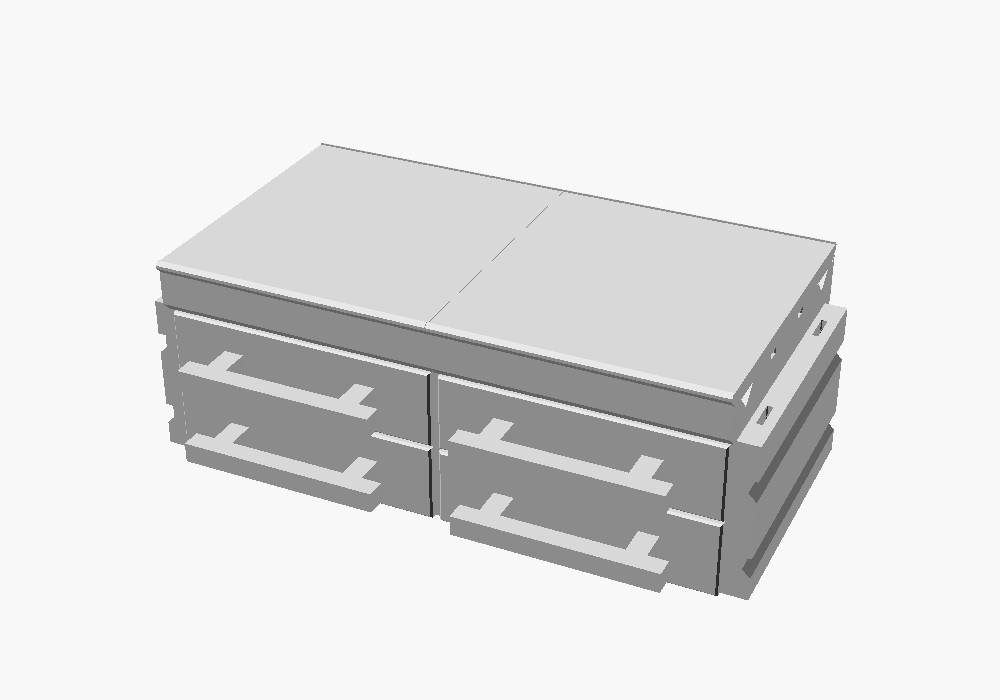
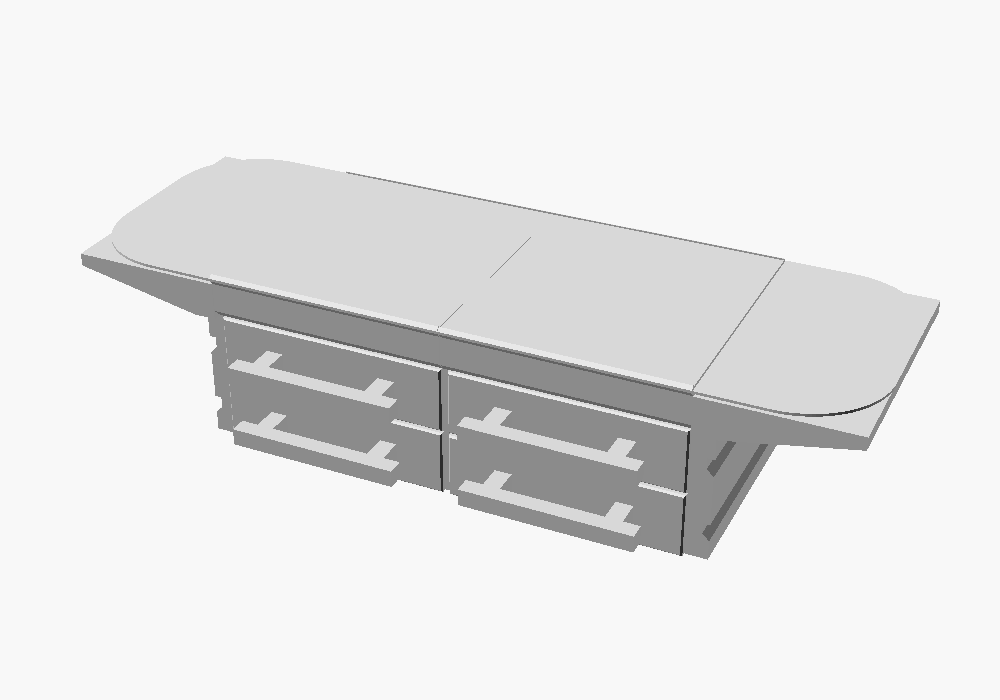
End pieces: squared, rounded-square, and rounded caps
- modules/end_caps.scad ports all four legacy end modules:
  base_plate_end_squared (tilted minkowski-stretched cap with dovetail
  sockets, tabs, HOK cutouts), base_plate_end_rounded (half-round, with
  legacy Oct/Hex bonus styles), top_plate_end_squared / _rounded (built
  on top_plate_from_shape), plus base_plate_end()/top_plate_end() style
  dispatchers
- END_* design constants (11-degree tilt, 89mm reach, bevel) in
  core/constants.scad; END_STYLE in config.scad; CORNER_RADIUS now used
- storage_system() gains ends/end_style and places caps per the original
  assembly; customizer gains End_Style and both end parts
- gallery heroes re-rendered - the classic capped DeskWare silhouette
  is back

Verified: all five end variants (rounded-square/squared/rounded base,
rounded-square/rounded top) are bit-exact against the legacy modules at
default dimensions - zero volume and bbox deltas.

Changed region(s): [[0.062, 0.21, 0.961, 0.87]]

diff --git a/docs/reference.md b/docs/reference.md
@@ -26,7 +26,8 @@ original sources preserved in `legacy/`).
 | `WALL_THICKNESS` / `BOTTOM_THICKNESS` | 3 / 2 | Drawer walls and floors. |
 | `CLEARANCE` | 0.15 | Fit clearance between mating parts. |
 | `DIVIDER_THICKNESS` | 2 | Drawer compartment divider walls. |
-| `CORNER_RADIUS` | 50 | Rounded-square end pieces (future milestone). |
+| `CORNER_RADIUS` | 50 | Corner rounding of "Rounded Square" end pieces. |
+| `END_STYLE` | `"Rounded Square"` | End cap style: `Rounded`, `Squared`, `Rounded Square`. |
 | `TOP_PLATE_*` | — | Thickness, insert recess depth, lip width, chamfer, seating clearance. |
 | `DRAWER_*` | — | Mounting method (printed handle / screw pulls), front chamfer, inlay recess. |
 | `CONNECTOR_STYLE` | `"dovetail"` | Seam joint style: `dovetail`, `dowel`, `magnet`. |
@@ -57,6 +58,10 @@ top_plate(width = PLATE_WIDTH, thickness = 8.5, recess = 1);
 riser(slide_sides = "BOTH", height = 80, chamfer = 0);
 riser_split(height1 = 80, height2 = 40);        //stepped-height riser halves
 backer(width = PLATE_WIDTH, height = 80);
+
+//end caps (style: "Rounded", "Squared", "Rounded Square")
+base_plate_end(style = END_STYLE, side = LEFT);
+top_plate_end(style = END_STYLE, side = RIGHT);
 
 //drawers
 drawer(height_units = 1, rows = 2, columns = 3);  //built-in compartments

diff --git a/README.md b/README.md
@@ -55,7 +55,7 @@ The full API is documented in [`docs/reference.md`](docs/reference.md).
 | `core/` | Fixed system constants, pure derivation functions, print-fit checks, split system |
 | `geometry/` | 2D cross-section profiles and sweep helpers |
 | `connectors/` | HOK connectors, dovetails, dowels, magnets, tabs, slides, screws, seam joint API |
-| `modules/` | The parts: plates, drawers + fronts, handle, riser, backer, dividers, `storage_system()` |
+| `modules/` | The parts: plates, end caps, drawers + fronts, handle, riser, backer, dividers, `storage_system()` |
 | `vendor/` | openGrid tiles (by David D), ported verbatim |
 | `examples/` | Ready-to-render demos (see gallery above) |
 | `docs/` | [Reference](docs/reference.md) and gallery images |